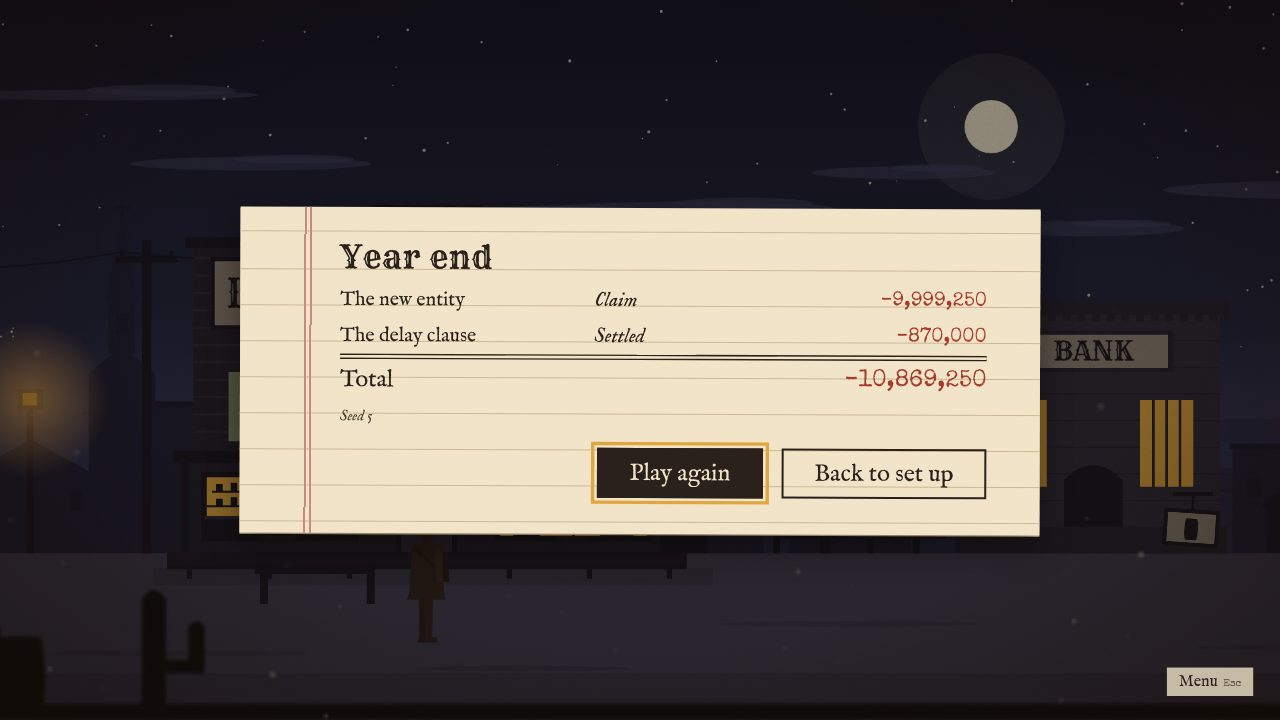
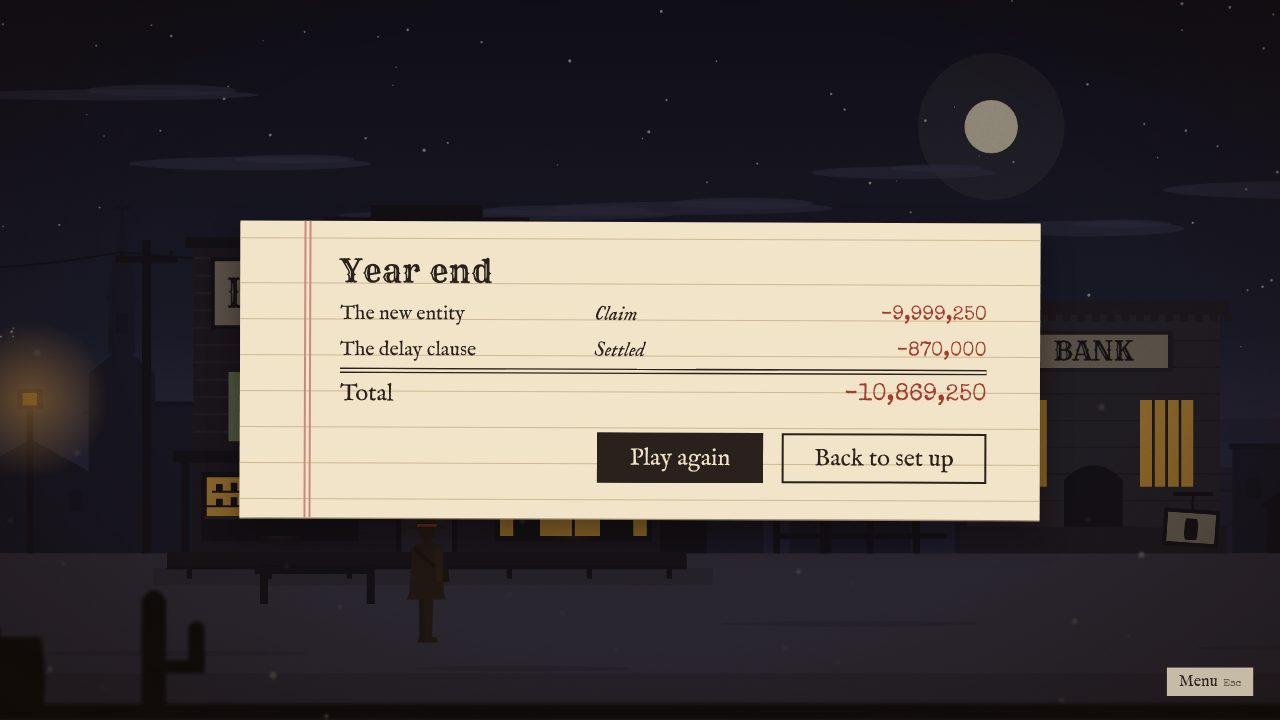
M6: review fixes
The year end no longer shows the seed: that is a question for the author. SPEC 5.1 lists
the view's news field. shots.js --private also shows the problem screen for a private pack
that fails validation.

Changed region(s): [[0.1875, 0.275, 0.8125, 0.7639]]

diff --git a/tools/shots.js b/tools/shots.js
@@ -422,6 +422,20 @@ async function main() {
       const f = await evaluate('B2B.debug.walkFrameTime()');
       console.log('walk    ' + f.frames + ' frames, average ' + f.averageMs + ' ms, worst ' + f.worstMs + ' ms (headless, 1920x1080)');
     }
+
+    if (privateRun && (!only.length || only.includes('m6p-broken'))) {
+      // A private pack that fails validation: the game shows the problems and does not start.
+      const text = fs.readFileSync(PRIVATE, 'utf8');
+      fs.writeFileSync(PRIVATE, text.replace("next: 'ask'", "next: 'nowhere'"));
+      await page('Emulation.setDeviceMetricsOverride', { width: 1280, height: 720, deviceScaleFactor: 1, mobile: false });
+      await page('Page.navigate', { url });
+      await pause(1200);
+      const shown = await evaluate("document.body.textContent.includes('The packs have problems') && document.body.textContent.includes('nowhere')");
+      if (!shown) errors.push('broken private pack: no problem screen');
+      const { data } = await page('Page.captureScreenshot', { format: 'png' });
+      fs.writeFileSync(path.join(OUT, 'm6p-broken-1280x720.png'), Buffer.from(data, 'base64'));
+      console.log('broken  ' + (shown ? 'ok  ' : 'FAIL') + ' a private pack that fails validation shows the problem screen');
+    }
   } finally {
     if (privateRun) fs.rmSync(PRIVATE, { force: true });
     cdp.child.kill();

diff --git a/src/ui/screens.js b/src/ui/screens.js
@@ -116,9 +116,8 @@
     return { stop: function () { B2B.props.leave(prop); } };
   }
 
-  // The year end: one row per deal, the total, Play again and Back to set up (SPEC 4). The
-  // seed, when there was one, so the room can play the same deals again.
-  function yearEnd(parent, rows, total, house, seed, onAgain, onSetup) {
+  // The year end: one row per deal, the total, Play again and Back to set up (SPEC 4).
+  function yearEnd(parent, rows, total, house, onAgain, onSetup) {
     const prop = sheet(parent, 'book yearend', 'year');
     el('h2', '', prop, 'Year end');
     const table = el('table', 'accounts', prop);
@@ -137,7 +136,6 @@
     el('td', '', tr, 'Total');
     el('td', '', tr, '');
     amount(tr, total);
-    if (seed != null) el('p', 'small seedline', prop, 'Seed ' + seed);
     const row = el('div', 'buttons', prop);
     const again = button(row, 'big', 'Play again', onAgain);
     button(row, 'big quiet', 'Back to set up', onSetup);

diff --git a/src/boot.js b/src/boot.js
@@ -119,7 +119,7 @@
   }
 
   // With no seed and wildcards off, the deals are the scripts exactly (SPEC 9). Wildcards on
-  // with no seed draws a seed, so every session differs; the year end shows it.
+  // with no seed draws a seed, so every session differs; the record keeps it.
   function startSession(scenarios, options) {
     session.chosen = scenarios;
     session.seed = options.seed != null ? options.seed : options.wildcards ? Math.floor(Math.random() * 100000) : null;
@@ -176,7 +176,7 @@
     mode = 'yearend';
     const record = session.record();
     note('year end\nrecord ' + JSON.stringify(record));
-    screen = B2B.screens.yearEnd(stage.props, session.deals, record.total, house, session.seed, function () {
+    screen = B2B.screens.yearEnd(stage.props, session.deals, record.total, house, function () {
       startSession(session.chosen, session.options);
     }, setup);
   }

diff --git a/css/props.css b/css/props.css
@@ -578,7 +578,6 @@
   color: var(--ink);
   font: 28px/1.2 var(--type);
 }
-.yearend .seedline { margin: 14px 0 0; }
 .large .props > .setup { padding: 30px 80px 34px; }
 .large .setup .start { margin-top: 20px; }
 .setup fieldset { margin: 0; padding: 0; border: 0; }

diff --git a/docs/DECISIONS.md b/docs/DECISIONS.md
@@ -86,8 +86,9 @@ Newest first. One line each. "Who" is `author` or `claude`.
 | Date | Milestone | Decision | Who | Why |
 |---|---|---|---|---|
 | 2026-11-13 | — | Keep building milestone after milestone overnight. Each milestone is reviewed and gets its own pull request, stacked on the one before, for the author to merge. Check-in questions carry a suggested answer, which stands until the author says otherwise. | author | "Work through the night. I really want to see the game and then I will direct you." |
+| 2026-11-13 | M6 | `view` gains `news` (a wildcard's front page), added to SPEC 5.1. | claude | The engine contract lists every view field. |
 | 2026-11-13 | M6 | The shapes of `skins`, `wild` and `wildcards`, written into PACK-FORMAT 8 (it only reserved the names). A skin set is `{ scale, names }`; the scenario lists which `k` keys are amounts. A card changes one `k` number or one beat's `next`. | claude | SPEC 9 and PACK-FORMAT 8 name them but give no shape. |
-| 2026-11-13 | M6 | No seed and wildcards off: the scripts exactly. A seed: each deal draws one of three name sets (the script's own, or one of two more) from it. Wildcards on: each slot also draws a card or its default. Wildcards on with no seed draws a seed, and the year end shows it ("Seed 4471") so the room can replay. | claude | SPEC 9: the seed drives every random pick. |
+| 2026-11-13 | M6 | No seed and wildcards off: the scripts exactly. A seed: each deal draws one of three name sets (the script's own, or one of two more) from it. Wildcards on: each slot also draws a card or its default. Wildcards on with no seed draws a seed, kept in the result record (SPEC 5.3). Whether the year end should show it is a question for the author. | claude | SPEC 9: the seed drives every random pick. |
 | 2026-11-13 | M6 | The public pack has no wildcard cards yet. The alternatives in the slot tables need the author's wording; until then wildcards on changes only names and amounts. The example private pack carries one card, to prove the machinery. | claude | Content belongs to the author (check-in 5, question 3). |
 | 2026-11-13 | M6 | Skin sets: s1 Corvane (scale 2) and Dunmarrow (scale 0.5); s2 Redmesa (2) and Graystake (0.5). Ms Vance, Mr Dade, the firm, the bolts and the cable stay the same in every set. | claude | PLAN M6: two extra sets of invented names. Names with a cast figure or with art stay put, so the story never contradicts itself. |
 | 2026-11-13 | M6 | s1's newspaper headline uses `{bridge}` ("NORTHERN BRIDGE" by default, in capitals as the headline is). The s2 headline bands are divided by `k.scale`, and the band "−999,999 to −1" reads `net > −1,000,000`, the same for whole numbers. | claude | The s1 script says the bridge becomes a skin key in M6. A scaled deal must keep the script's headline. |

diff --git a/docs/SPEC.md b/docs/SPEC.md
@@ -136,8 +136,9 @@ B2B.engine.replay(scenario, house, path)    -> state      plays a recorded path 
   option ids for a pick. This is the same shape as the fixtures and the result record.
 - `view` is everything the screen needs for the current node, with every placeholder
   resolved and every function already called: `{ kind, at, show, text, lead, foot, from,
-  to, who, title, headline, stamp, face, mood, week, prompt, hint, options, count, result }`.
-  `text` is always an array of paragraphs.
+  to, who, title, headline, stamp, face, mood, week, prompt, hint, options, count, result,
+  news }`. `text` is always an array of paragraphs. `news` is a wildcard's front page,
+  `{ headline, text }`, or null (section 9).
 - A wrong move (unknown option, wrong number of picks, advancing at a choice) throws an
   `Error` that names the scenario, the node and the problem.
 - `replay` auto-advances beats and consumes one path step at each choice or pick.
